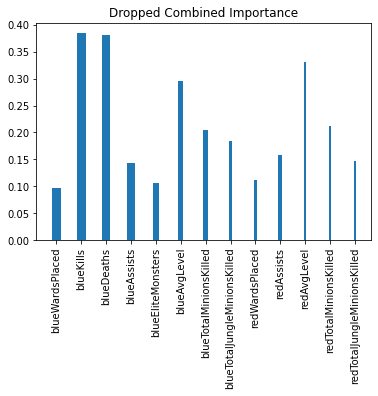
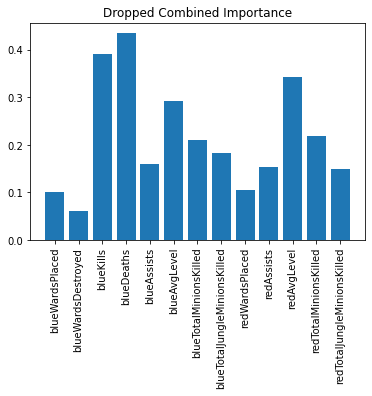
drop 2

Changed region(s): [[0.0, 0.0, 0.9758, 1.0]]

diff --git a/Project.py b/Project.py
@@ -87,10 +87,10 @@ def Plot(header, importance, title):
     plt.figure()
     plt.xticks(rotation=90, ha='center')
     plt.title(title)
-    plt.bar(header, importance, sorted(importance, reverse=True))
+    plt.bar(header, importance)
     plt.savefig(title, bbox_inches='tight')
     
-def DropColumns(X_train, y_train, dropCols):
+def DropColumns(dropCols):
     droppedData = data.drop(dropCols, axis = 1)
     dropped_X_train, y_train, dropped_X_test, y_test, droppedHeader = DataPreprocess.SplitData(droppedData)
     
@@ -125,21 +125,13 @@ if __name__ == "__main__":
     initialAccuracy.append(logisticRegressionAccuracy)
     Plot(header, logisticRegressionImportance, "Logistic Regression Importance")
     
-    # plot accuracy
-    xAxis = ["Decision Tree", "Random Forest", "Naive Bayes", "Logistic Regression"]
-    plt.figure()
-    plt.xticks(rotation=90, ha='center')
-    plt.title("Initial Accuracy")
-    plt.bar(xAxis, initialAccuracy)
-    plt.savefig("Initial Accuracy", bbox_inches='tight')
-    
     # combine the importances
     combinedImportance = decisionTreeImportance + randomForestImportance + naiveBayesImportance + logisticRegressionImportance
     Plot(header, combinedImportance, "Combined Importance")
     
     # drop the 10 least important feature
     dropHeader = FindMinIndex(10, combinedImportance, header)
-    dropped_X_train, dropped_X_test, droppedHeader = DropColumns(X_train, y_train, dropHeader)
+    dropped_X_train, dropped_X_test, droppedHeader = DropColumns(dropHeader)
     
     droppedAccuracy = []
     
@@ -171,13 +163,50 @@ if __name__ == "__main__":
     combinedImportance = decisionTreeImportance + randomForestImportance + naiveBayesImportance + logisticRegressionImportance
     Plot(droppedHeader, combinedImportance, "Dropped Combined Importance")
     
+    # drop the 6 least important feature
+    dropHeader2 = FindMinIndex(6, combinedImportance, droppedHeader)
+    dropHeader2 = dropHeader + dropHeader2
+    dropped2_X_train, dropped2_X_test, droppedHeader2 = DropColumns(dropHeader2)
     
-    # plot dropped accuracy
+    droppedAccuracy2 = []
+    
+    # decision tree
+    decisionTreeAccuracy, decisionTreeImportance = DecisionTree(dropped2_X_train, dropped2_X_test)
+    print("2nd Round Dropped Decision Tree Accuracy: ", decisionTreeAccuracy)
+    droppedAccuracy2.append(decisionTreeAccuracy)
+    Plot(droppedHeader2, decisionTreeImportance, "Dropped Decision Tree Importance 2")
+    
+    # random forest
+    randomForestAccuracy, randomForestImportance = RandomForest(dropped2_X_train, dropped2_X_test)
+    print("2nd Round Dropped Random Forest Accuracy: ", randomForestAccuracy)
+    droppedAccuracy2.append(randomForestAccuracy)
+    Plot(droppedHeader2, randomForestImportance, "Dropped Random Forest Importance 2")
+
+    # naive Bayes
+    naiveBayesAccuracy, naiveBayesImportance = NaiveBayes(dropped2_X_train, dropped2_X_test)
+    print("2nd Round Dropped Naive Bayes Accuracy: ", naiveBayesAccuracy)
+    droppedAccuracy2.append(naiveBayesAccuracy)
+    Plot(droppedHeader2, naiveBayesImportance, "Dropped Naive Bayes 2")
+
+    # LogisticRegression
+    logisticRegressionAccuracy, logisticRegressionImportance = LogisticRegression(dropped2_X_train, dropped2_X_test)
+    print("2nd Round Dropped Logistic Regression Accuracy: ", logisticRegressionAccuracy)
+    droppedAccuracy2.append(logisticRegressionAccuracy)
+    Plot(droppedHeader2, logisticRegressionImportance, "Dropped Logistic Regression Importance 2")
+    
+    # plot accuracy
+    xAxis = ["Decision Tree", "Random Forest", "Naive Bayes", "Logistic Regression"]
     plt.figure()
     plt.xticks(rotation=90, ha='center')
-    plt.title("Dropped Accuracy")
-    plt.bar(xAxis, droppedAccuracy)
-    plt.savefig("Dropped Accuracy", bbox_inches='tight')
+    plt.title("Accuracy")
+    plt.plot(xAxis, initialAccuracy, 'v', color='blue', label='Initial')
+    plt.plot(xAxis, droppedAccuracy, 'v', color='red', label='Drop 10')
+    plt.plot(xAxis, droppedAccuracy2, 'v', color='green', label='Drop 16')
+    plt.legend()
+    
+    plt.savefig("Accuracy", bbox_inches='tight')
+    
+    
     
     
 # %%
